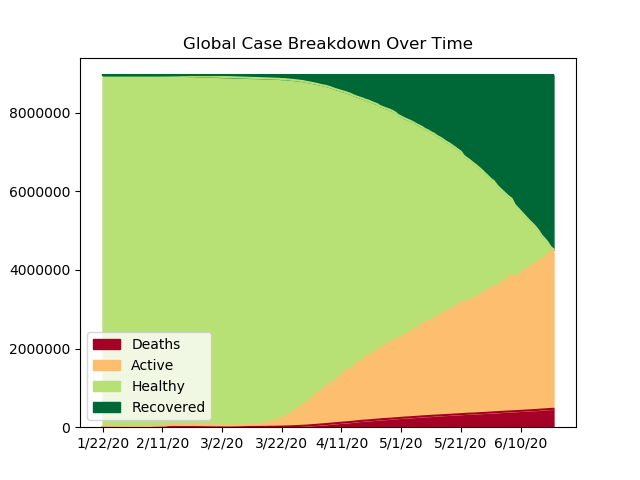
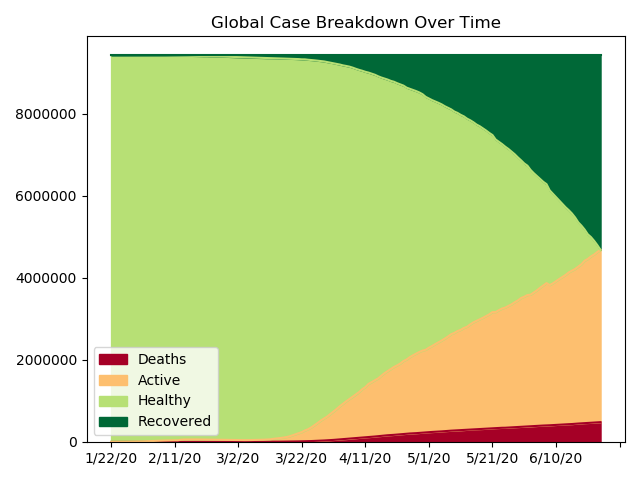
update figures

Changed region(s): [[0.0, 0.0312, 0.9688, 0.9688]]

diff --git a/scripts/update_covid_fig.py b/scripts/update_covid_fig.py
@@ -6,7 +6,6 @@ from git import Repo
 from matplotlib import pyplot as plt
 
 def create_graph(confirmed, deaths, recovered, output_path, identifier):
-    plt.tight_layout()
     confirmed = confirmed.drop(columns=["Province/State", "Country/Region", "Lat", "Long"])
     deaths = deaths.drop(columns=["Province/State", "Country/Region", "Lat", "Long"])
     recovered = recovered.drop(columns=["Province/State", "Country/Region", "Lat", "Long"])
@@ -24,8 +23,8 @@ def create_graph(confirmed, deaths, recovered, output_path, identifier):
     N = total_df.sum(axis=1)
     total_df['Healthy'] = N.max() - N
 
-    x = np.arange(1, len(total_df) + 1)
-    y = confirmed
+    x = np.arange(len(total_df) - 13, len(total_df) + 1)
+    y = confirmed[-14:]
     x_log = np.log(x)
     y_log = np.log(y)
 
@@ -34,17 +33,20 @@ def create_graph(confirmed, deaths, recovered, output_path, identifier):
     y_fit_log = m * x_log + b
     y_fit = np.exp(y_fit_log)
 
-    plt.plot(x, total_df["Active"] + total_df["Recovered"] + total_df["Deaths"], 'o')
+    plt.plot(x, y, 'o')
     plt.plot(x, y_fit)
     plt.title(identifier + " Confirmed Cases")
     plt.xlabel("Time (Days)")
     plt.ylabel("# Confirmed Cases")
-    plt.legend(["Raw Data", "Best Fit Line"])
+    plt.legend(["Raw Data", "Best Fit Line (y = {}*x^{})".format(round(b, 2), round(m, 2))])
     plt.xscale("log")
     plt.yscale("log")
+    plt.tight_layout()
     plt.savefig(os.path.join(output_path, "COVID-19_" + identifier + "_confirmed.png"))
+    plt.clf()
 
     total_df[["Deaths", "Active", "Healthy", "Recovered"]].plot.area(title= identifier + " Case Breakdown Over Time", colormap="RdYlGn")
+    plt.tight_layout()
     plt.savefig(os.path.join(output_path, "COVID-19_" + identifier + "_breakdown.png"))
     plt.clf()
 

diff --git a/_drafts/2020-06-19-intrinisc-qualities-in-langugae.md b/_drafts/2020-06-19-intrinisc-qualities-in-langugae.md
@@ -2,7 +2,7 @@
 layout: post
 author: Coen
 title: Intrinsic Qualities in Language
-subtitle: My favorite rap songs are in Korean
+subtitle: Are certain topics easier to express in a different language?
 category: ramblings
 background: https:////c.pxhere.com/images/46/b4/d2671337be6957fe683f1545bbdb-1456201.jpg!d
 imgsource: https://pixabay.com/
